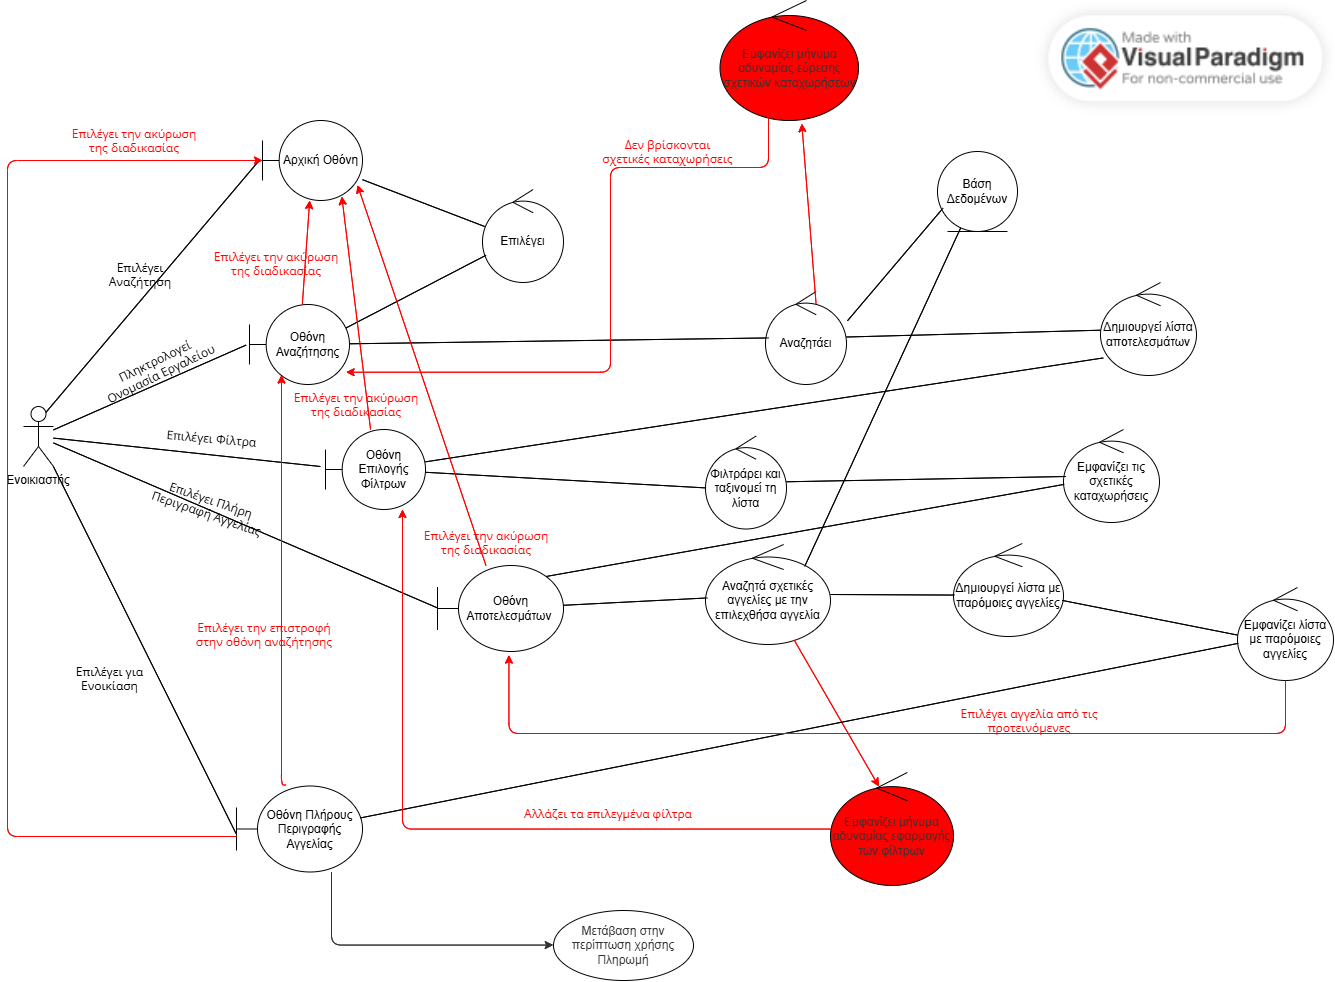
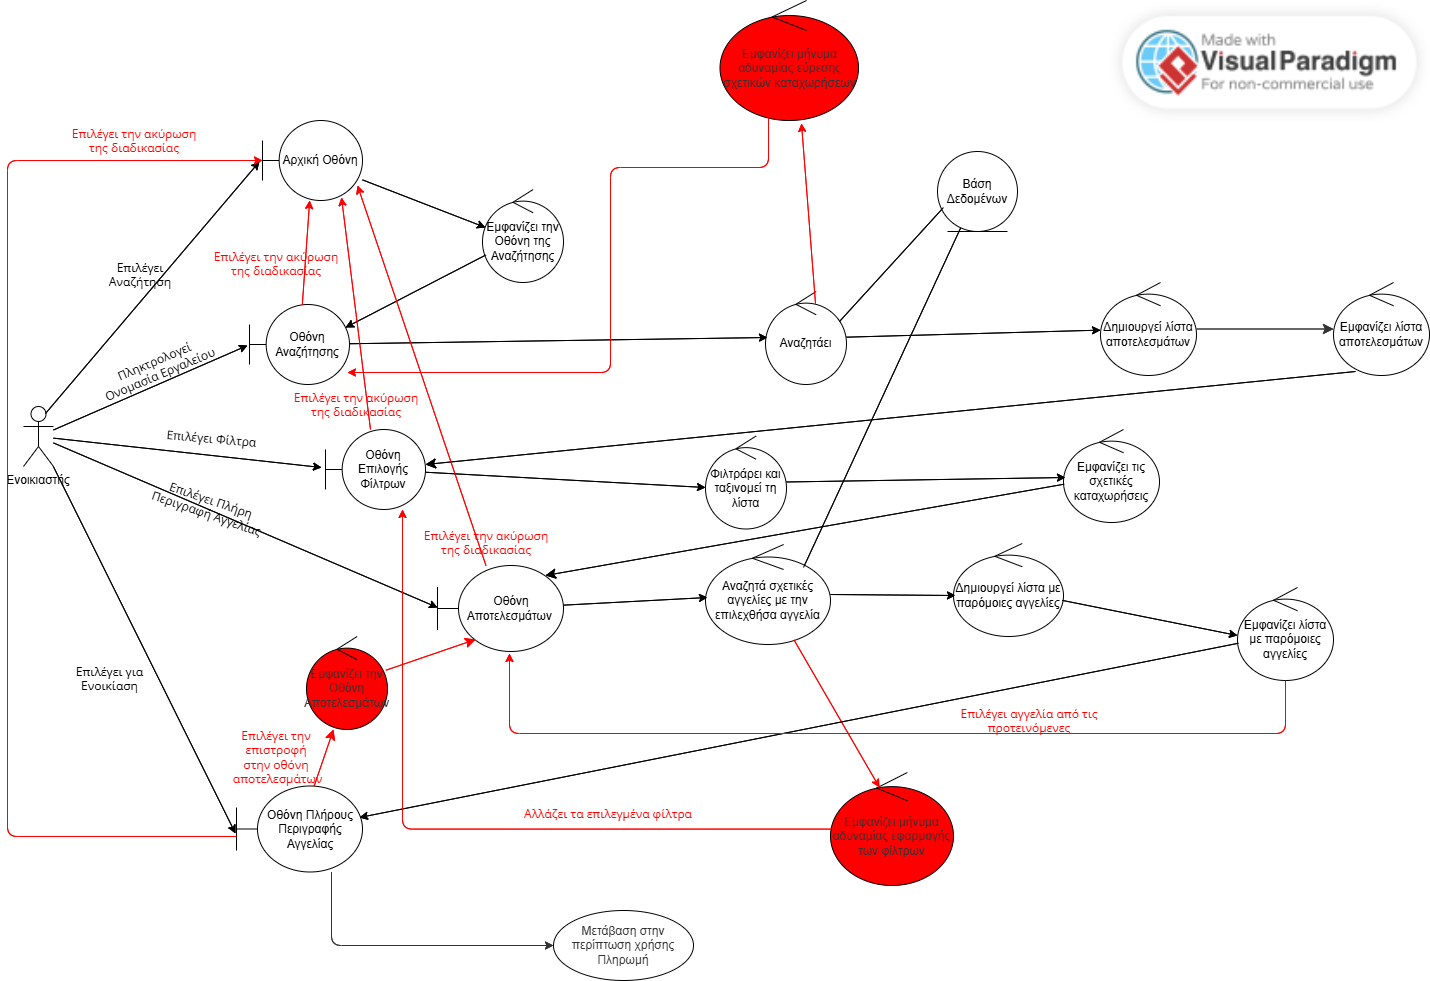
corrections

diff --git a/changes/UC_search.md b/changes/UC_search.md
@@ -5,7 +5,7 @@
 2.  Το σύστημα μεταβιβάζει τον ενοικιαστή στην σελίδα της αναζήτησης 
 3.  Ο ενοικιαστής πληκτρολογεί την ονομασία του εργαλείου που θέλει να αναζητήσει
 4.  Το σύστημα αναζητά στη βάση δεδομένων τις καταχωρήσεις που περιέχουν στον τίτλο τους μία ή περισσότερες από τις λέξεις κλειδιά που έχει πληκτρολογήσει ο ενοικιαστής
-5.  Το σύστημα κατατάσσει σε μία λίστα τις σχετικές καταχωρήσεις που είναι το αποτέλεσμα της αναζήτησης
+5.  Το σύστημα κατατάσσει σε μία λίστα τις σχετικές καταχωρήσεις που είναι το αποτέλεσμα της αναζήτησης και εμφανίζει τη λίστα
 6.  Ο ενοικιαστής επιλέγει ανάμεσα στα φίλτρα αναζήτησης: Διαθεσιμότητα, Εύρος Τιμών, Αύξουσα-Φθίνουσα τιμή, Κατηγορία Εργαλείων (ηλεκτρικό, χειροκίνητο κτλ), Τοποθεσία (για εύρεση των πιο κοντινών διαθέσιμων εργαλείων) ή κανένα φίλτρο
 7.  Το σύστημα φιλτράρει και ταξινομεί την δημιουργηθείσα λίστα με βάση τα επιλεγμένα κριτήρια και εμφανίζει τις πιο σχετικές καταχωρήσεις από την ταξινομημένη λίστα 
 8.  Ο ενοικιαστής επιλέγει να δει την πλήρη περιγραφή μιας αγγελίας από τη λίστα 
@@ -23,7 +23,7 @@
 
 3. Λάθος φίλτρα (από το βήμα 9 της βασικής)
 2.3.1 Το σύστημα αδυνατεί να κάνει αναδιάταξη των σχετικών εγγραφών, καθώς καμία δεν πληρή τα φίλτρα και ενημερώνει το χρήστη για την αδυναμία εύρεσης αποτελεσμάτων με βάση τα επιλεγμένα φίλτρα
-2.3.2 Επιστροφή στο βήμα 7 της βασικής ροής
+2.3.2 Επιστροφή στο βήμα 6 της βασικής ροής
 
 4. Νέα επιλογή από τα προτεινόμενα (από το βήμα 10 της βασικής)
 2.4.1 Ο ενοικιαστής επιλέγει να δει άλλη αγγελία από την λίστα με τις παρόμοιες αγγελίες
